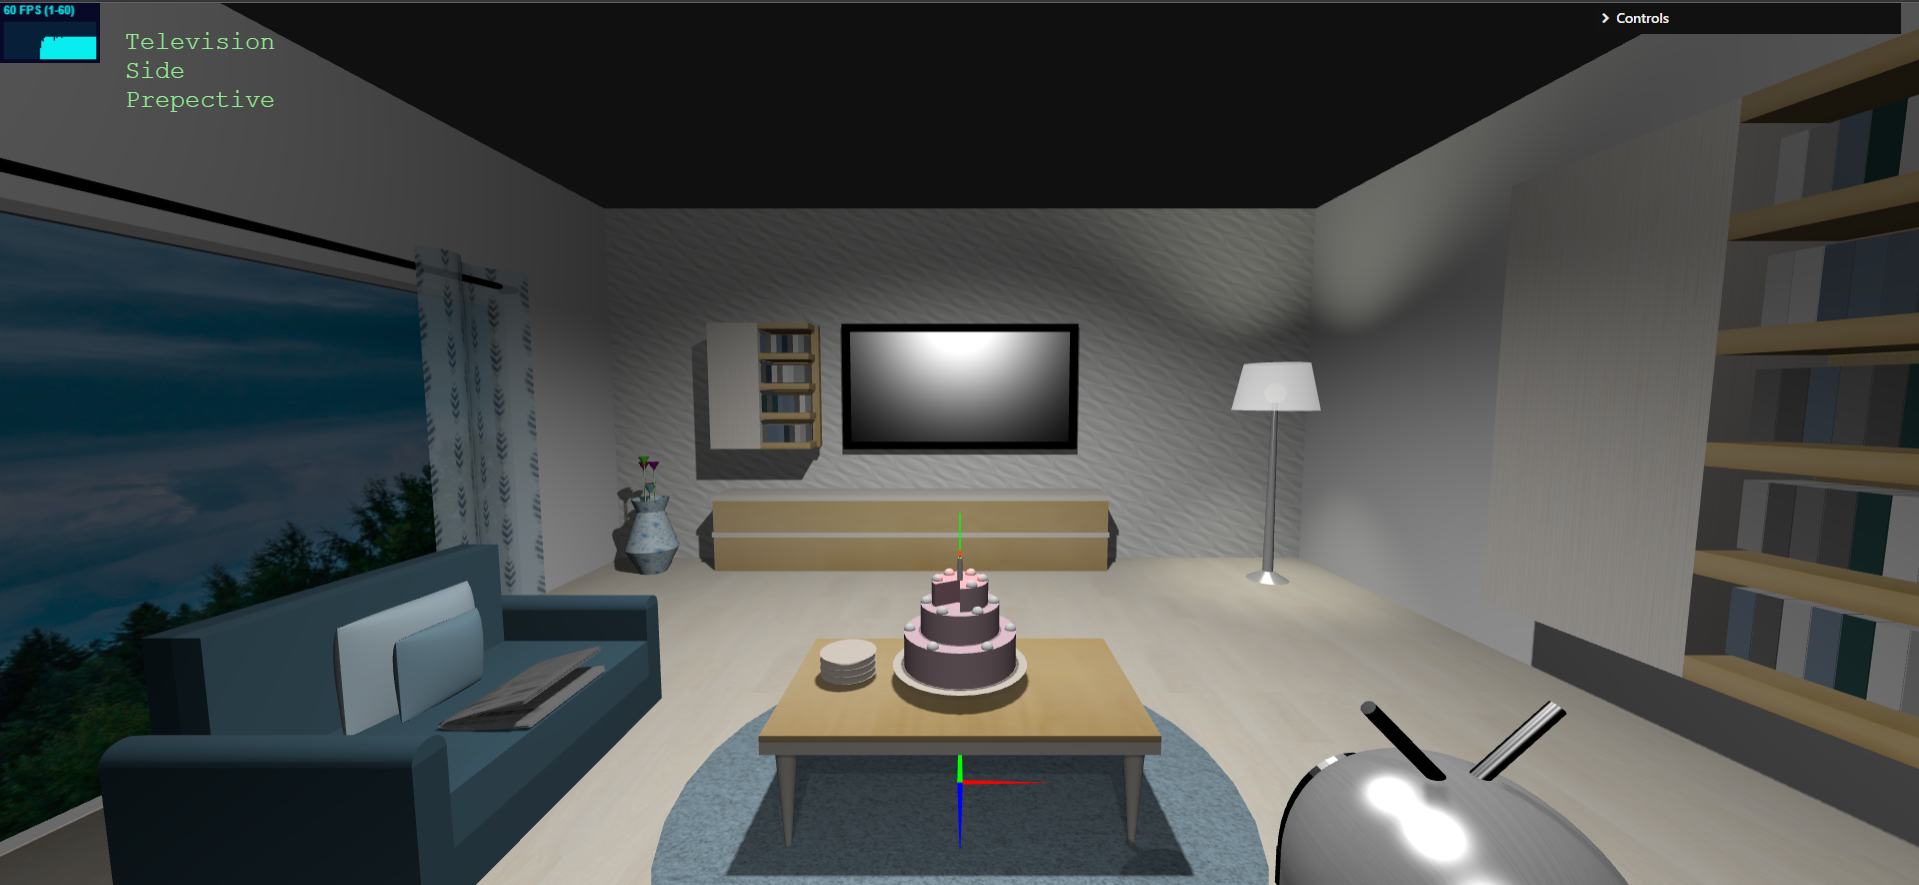
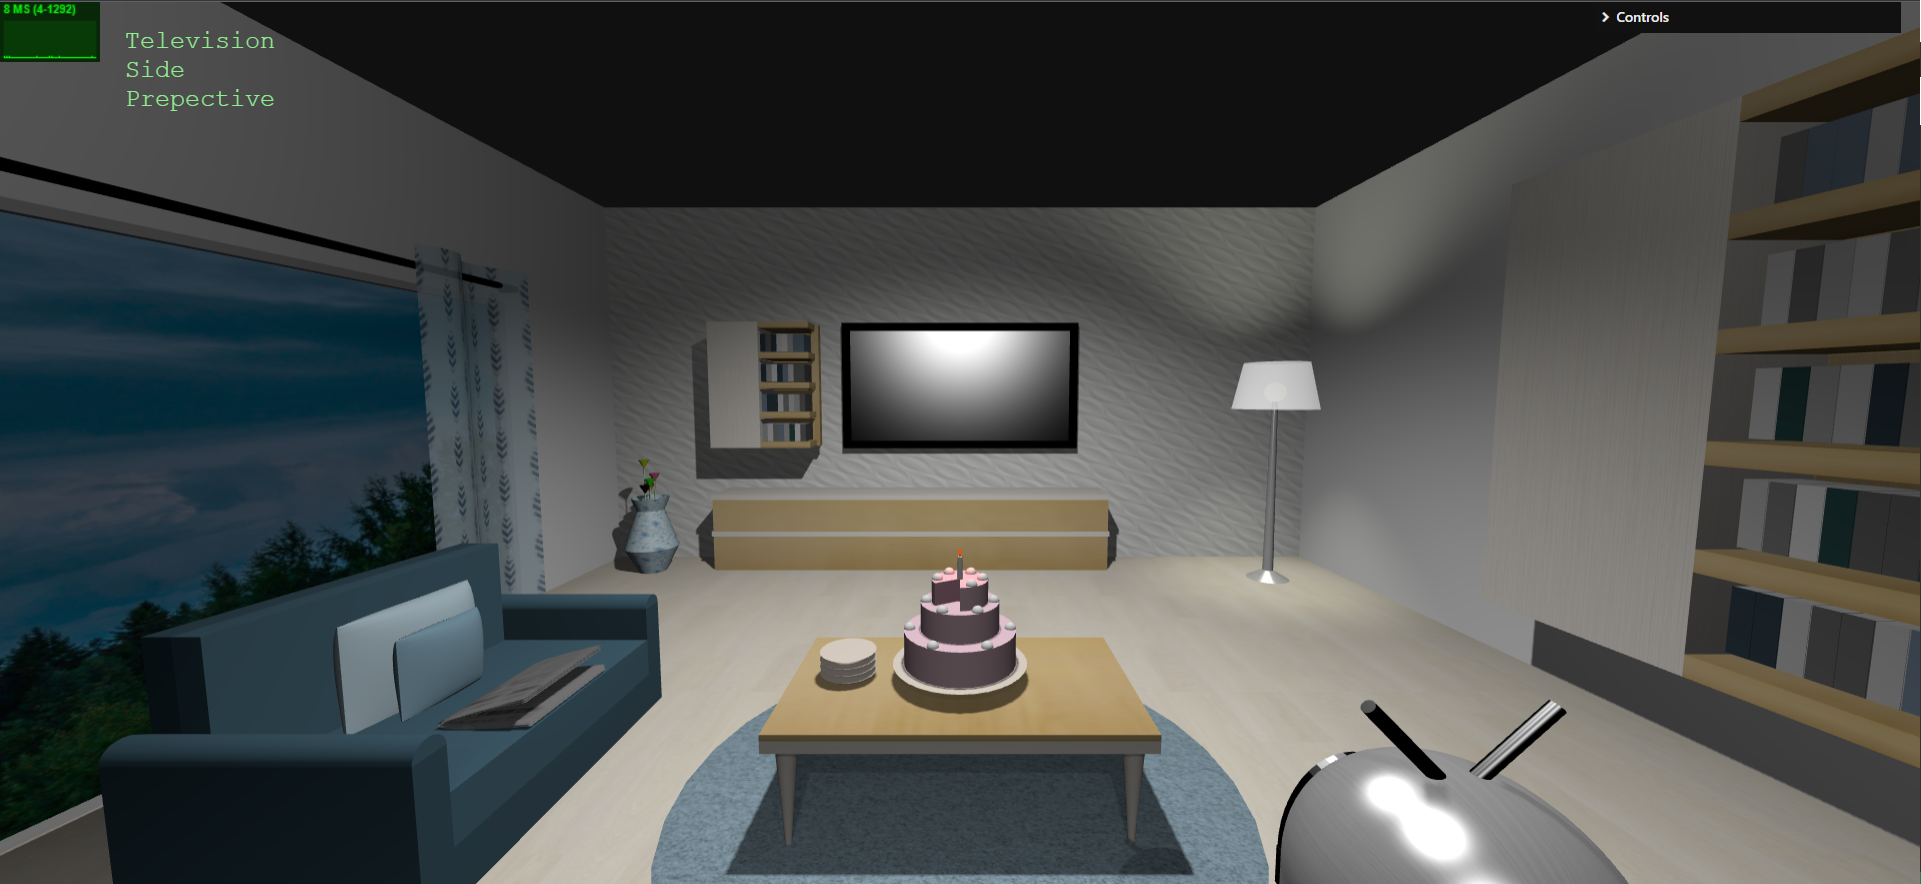
git changed images and added axis to interface

diff --git a/tp1/MyGuiInterface.js b/tp1/MyGuiInterface.js
@@ -5,7 +5,7 @@ import { MyContents } from './MyContents.js';
 /**
     This class customizes the gui interface for the app
 */
-class MyGuiInterface  {
+class MyGuiInterface {
 
     /**
      * 
@@ -13,7 +13,7 @@ class MyGuiInterface  {
      */
     constructor(app) {
         this.app = app
-        this.datgui =  new GUI();
+        this.datgui = new GUI();
         this.contents = null
     }
 
@@ -29,24 +29,34 @@ class MyGuiInterface  {
      * Initialize the gui interface
      */
     init() {
-        
-        const data = {  
+
+        const data = {
             'diffuse color': this.contents.diffusePlaneColor,
             'specular color': this.contents.specularPlaneColor,
         };
 
+        const axis = this.datgui.addFolder('Axis');
+        axis.add(this.contents, 'axisVisible').name("Visible").onChange(() => { this.contents.rebuildAxis() });
+
+        // adds a folder to the gui interface for the camera
+        const cameraFolder = this.datgui.addFolder('Camera')
+        cameraFolder.add(this.app, 'activeCameraName', ['Perspective', 'Robot', 'Cake', 'Jornal', 'Vase Cylinder', 'Coil', 'Round Vase', 'Photo Frames', 'Carocha', 'Dining Side Prepective', 'Television Side Prepective', 'Left', 'Right', 'Top', 'Front', 'Back']).name("active camera");
+        // note that we are using a property from the app 
+        cameraFolder.add(this.app.activeCamera.position, 'x', 0, 10).name("x coord")
+        cameraFolder.open()
+
         // adds a folder to the gui interface for the plane
-        const planeFolder = this.datgui.addFolder( 'Floor' );
-        planeFolder.addColor( data, 'diffuse color' ).onChange( (value) => { this.contents.updateDiffusePlaneColor(value) } );
-        planeFolder.addColor( data, 'specular color' ).onChange( (value) => { this.contents.updateSpecularPlaneColor(value) } );
-        planeFolder.add(this.contents, 'planeShininess', 0, 1000).name("shininess").onChange( (value) => { this.contents.updatePlaneShininess(value) } );
+        const planeFolder = this.datgui.addFolder('Floor');
+        planeFolder.addColor(data, 'diffuse color').onChange((value) => { this.contents.updateDiffusePlaneColor(value) });
+        planeFolder.addColor(data, 'specular color').onChange((value) => { this.contents.updateSpecularPlaneColor(value) });
+        planeFolder.add(this.contents, 'planeShininess', 0, 1000).name("shininess").onChange((value) => { this.contents.updatePlaneShininess(value) });
         planeFolder.open();
 
         // adds a folder to the gui interface for the Textures
-        const textureFolder = this.datgui.addFolder( 'Textures Plane Settings' );
+        const textureFolder = this.datgui.addFolder('Textures Floor Settings');
         const wrappingModeOptions = ['ClampToEdge', 'Repeat', 'MirroredRepeat'];
-        textureFolder.add(this.contents, 'wrapping_mode_u', wrappingModeOptions).name('Wrapping U').onChange( () => { this.contents.rebuildFloorWrapping() } );
-        textureFolder.add(this.contents, 'wrapping_mode_v', wrappingModeOptions).name('Wrapping V').onChange( () => { this.contents.rebuildFloorWrapping() } );
+        textureFolder.add(this.contents, 'wrapping_mode_u', wrappingModeOptions).name('Wrapping U').onChange(() => { this.contents.rebuildFloorWrapping() });
+        textureFolder.add(this.contents, 'wrapping_mode_v', wrappingModeOptions).name('Wrapping V').onChange(() => { this.contents.rebuildFloorWrapping() });
         textureFolder.add(this.contents, 'repeat_u', 1, 10).name('Repeat U').onChange(() => { this.contents.rebuildFloor() });
         textureFolder.add(this.contents, 'repeat_v', 1, 10).name('Repeat V').onChange(() => { this.contents.rebuildFloor() });
         textureFolder.add(this.contents, 'offset_u', 0, 1).name('Offset U').onChange(() => { this.contents.rebuildFloor() });
@@ -54,30 +64,20 @@ class MyGuiInterface  {
         textureFolder.add(this.contents, 'rotation', 0, 360).name('Rotation').onChange(() => { this.contents.rebuildFloor() });
 
 
-        const lightFolder = this.datgui.addFolder( 'SpotLight cake' );
-        lightFolder.addColor( this.contents, 'lightColor' ).onChange( () => { this.contents.rebuildSpotlight() } );
-        lightFolder.add(this.contents, 'lightIntensity', 0, 20).name("Intensity").onChange( () => { this.contents.rebuildSpotlight() } );
-        lightFolder.add(this.contents, 'lightDistance', 0, 100).name("Distance").onChange( () => { this.contents.rebuildSpotlight() } );
-        lightFolder.add(this.contents, 'lightAngle', 0, 90).name("Angle").onChange( () => { this.contents.rebuildSpotlight() } );
-        lightFolder.add(this.contents, 'lightPenumbra', 0, 1).name("Penumbra").onChange( () => { this.contents.rebuildSpotlight() } );
-        lightFolder.add(this.contents, 'lightDecay', 0, 1).name("Decay").onChange( () => { this.contents.rebuildSpotlight() } );
-        lightFolder.add(this.contents.lightPosition, 'x', -5, 20).name("Position X").onChange( () => { this.contents.rebuildSpotlight() } );
-        lightFolder.add(this.contents.lightPosition, 'y', -5, 20).name("Position Y").onChange( () => { this.contents.rebuildSpotlight() } );
-        lightFolder.add(this.contents.lightPosition, 'z', -5, 20).name("Position Z").onChange( () => { this.contents.rebuildSpotlight() } );
-        lightFolder.add(this.contents.lightTarget, 'x', -5, 20).name("Target X").onChange( () => { this.contents.rebuildSpotlight() } );
-        lightFolder.add(this.contents.lightTarget, 'y', -5, 20).name("Target Y").onChange( () => { this.contents.rebuildSpotlight() } );
-        lightFolder.add(this.contents.lightTarget, 'z', -5, 20).name("Target Z").onChange( () => { this.contents.rebuildSpotlight() } );
+        const lightFolder = this.datgui.addFolder('SpotLight cake');
+        lightFolder.addColor(this.contents, 'lightColor').onChange(() => { this.contents.rebuildSpotlight() });
+        lightFolder.add(this.contents, 'lightIntensity', 0, 20).name("Intensity").onChange(() => { this.contents.rebuildSpotlight() });
+        lightFolder.add(this.contents, 'lightDistance', 0, 100).name("Distance").onChange(() => { this.contents.rebuildSpotlight() });
+        lightFolder.add(this.contents, 'lightAngle', 0, 90).name("Angle").onChange(() => { this.contents.rebuildSpotlight() });
+        lightFolder.add(this.contents, 'lightPenumbra', 0, 1).name("Penumbra").onChange(() => { this.contents.rebuildSpotlight() });
+        lightFolder.add(this.contents, 'lightDecay', 0, 1).name("Decay").onChange(() => { this.contents.rebuildSpotlight() });
+        lightFolder.add(this.contents.lightPosition, 'x', -5, 20).name("Position X").onChange(() => { this.contents.rebuildSpotlight() });
+        lightFolder.add(this.contents.lightPosition, 'y', -5, 20).name("Position Y").onChange(() => { this.contents.rebuildSpotlight() });
+        lightFolder.add(this.contents.lightPosition, 'z', -5, 20).name("Position Z").onChange(() => { this.contents.rebuildSpotlight() });
+        lightFolder.add(this.contents.lightTarget, 'x', -5, 20).name("Target X").onChange(() => { this.contents.rebuildSpotlight() });
+        lightFolder.add(this.contents.lightTarget, 'y', -5, 20).name("Target Y").onChange(() => { this.contents.rebuildSpotlight() });
+        lightFolder.add(this.contents.lightTarget, 'z', -5, 20).name("Target Z").onChange(() => { this.contents.rebuildSpotlight() });
 
-
-
-
-
-        // adds a folder to the gui interface for the camera
-        const cameraFolder = this.datgui.addFolder('Camera')
-        cameraFolder.add(this.app, 'activeCameraName', [ 'Perspective', 'Robot', 'Cake','Jornal','Vase Cylinder', 'Coil', 'Round Vase','Photo Frames','Carocha', 'Dining Side Prepective','Television Side Prepective', 'Left','Right', 'Top', 'Front', 'Back' ] ).name("active camera");
-        // note that we are using a property from the app 
-        cameraFolder.add(this.app.activeCamera.position, 'x', 0, 10).name("x coord")
-        cameraFolder.open()
     }
 }
 

diff --git a/tp1/MyContents.js b/tp1/MyContents.js
@@ -34,6 +34,7 @@ class MyContents  {
     constructor(app) {
         this.app = app
         this.axis = null
+        this.axisVisible = false
         this.house = null
 
         //cake related attributes
@@ -189,7 +190,7 @@ class MyContents  {
     init() {
 
         // Create and attach the axis to the scene
-        if (this.axis === null) {
+        if (this.axis === null && this.axisVisible) {
             this.axis = new MyAxis(this);
             this.app.scene.add(this.axis);
         }
@@ -581,6 +582,20 @@ class MyContents  {
         }
         this.buildSpotlightCake();
     }
+
+    /**
+     * updates the axis visibility
+     */
+    rebuildAxis(){
+        if(this.axis !== undefined && this.axis !== null && !this.axisVisible){
+            this.app.scene.remove(this.axis);
+        }
+        else if(this.axisVisible){
+            this.axis = new MyAxis(this);
+            this.app.scene.add(this.axis);
+        }
+    }
+
     
 
     /**
